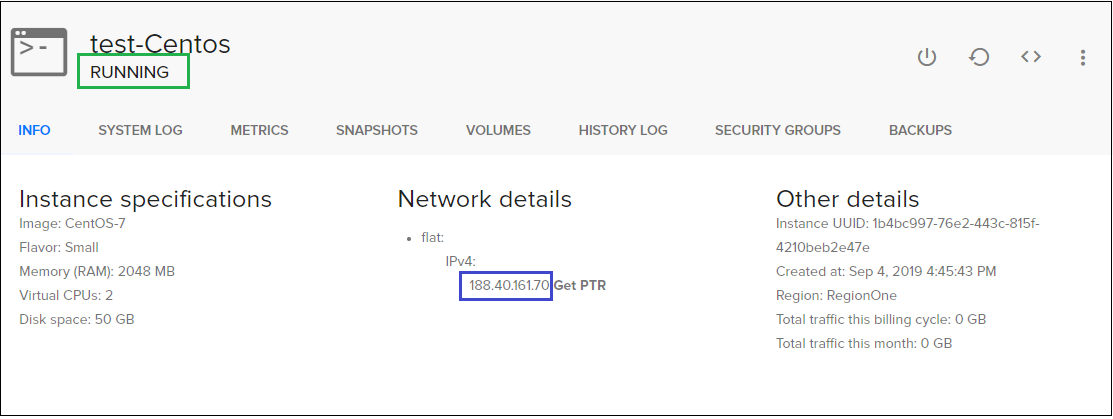
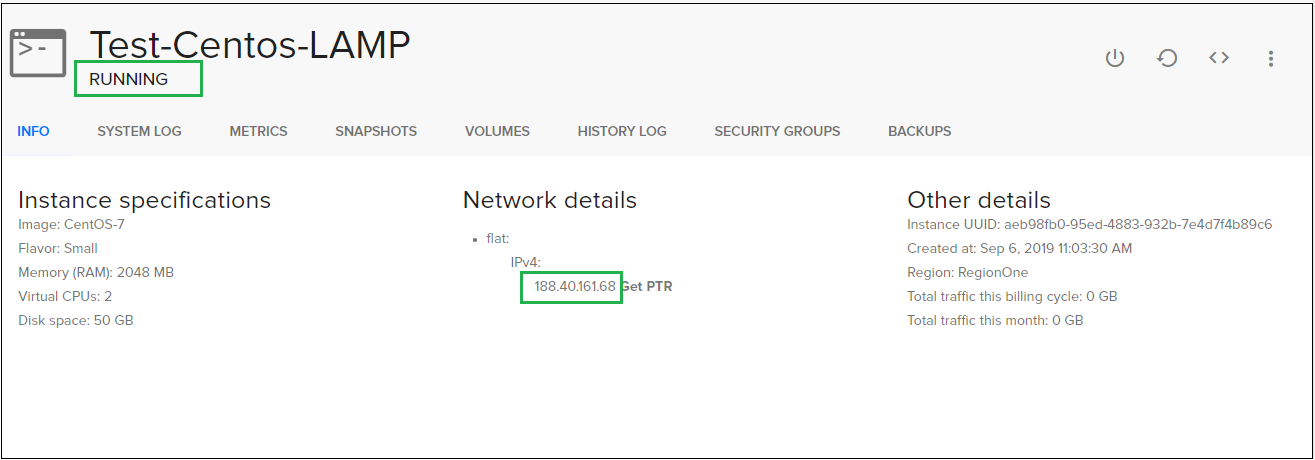
Install-LAMP+centos

diff --git a/_docs/tutorials/Install-LAMP+centos.md b/_docs/tutorials/Install-LAMP+centos.md
@@ -21,7 +21,7 @@ This article walks you through how to deploy an Apache web server, MySQL, and PH
 ## Table of contents
 {: .no_toc .text-delta }
 
-1. TOC
+* TOC
 {:toc}
 
 ## Create a virtual machine
@@ -35,7 +35,7 @@ For creating new virtual machine do the following:
 ![](../../assets/img/new-linux-vm-V/instances-Ventus0.png)
 
 2) On the following page fill next information:
-  - Instance Name (eg. "Test_LAMP")
+  - Instance Name (eg. "Test_LAMP" or "Test-Centos-LAMP)
   - Select a Boot source (eg. "ubuntu-1604-xenial" or "CentOS-7")
   - Select a configuration (eg. "Small")
   - Select a SSH Key
@@ -55,7 +55,7 @@ When the VM has been created, you can view instance details. Take note of the *p
 ![](../../assets/img/LAMP/centos0.png) 
 
 
-## Deploy the LAMP stack on an Centos VM
+## Deploy the LAMP stack on a Centos VM
 ---
 ### Install Apache
 
@@ -90,21 +90,21 @@ sudo systemctl enable httpd.service
 ```
 ### Install MariaDB Database
 
-MariaDB is a forked version of MySQL. It is an open source software application developed by a community that wants it to remain free for everyone.
+MariaDB is a forked version of MySQL. It is an open source software application developed by a community that wants it to remain free for everyone. We will need MariaDB to store information for our dynamic websites. 
 
-We will need MariaDB to store information for our dynamic websites. We can install MariaDB together with additional packages that we require on our CentOs server by running the commands below:
+1) We can install MariaDB together with additional packages that we require on our CentOs server by running the commands below:
 
 ```
 sudo yum install mariadb-server mariadb
 ```
-Confirm the installation, by pressing Y and Enter.
+2) Confirm the installation, by pressing `Y` and `Enter`.
 
-Now that the MariaDB installation was completed successfully, we can run the command below to start the service.
+3) Now that the MariaDB installation was completed successfully, we can run the command below to start the service.
 
 ```
 sudo systemctl start mariadb
 ```
-By default, our MariaDB is not secure by default, we need to remove the anonymous user and test database and configure other settings by running the command below:
+4) By default, our MariaDB is not secure by default, we need to remove the anonymous user and test database and configure other settings by running the command below:
 
 ```
 sudo mysql_secure_installation
@@ -122,41 +122,38 @@ Disallow root login remotely? [Y/n] Y
 Remove test database and access to it? [Y/n] Y
 Reload privilege tables now? [Y/n] Y
 ```
-Your MariaDB server is now secure. Type the command below to enable it during boot:
+5) Your MariaDB server is now secure. Type the command below to enable it during boot:
 
 ```
 sudo systemctl enable mariadb.service
 ```
 
 ### Install PHP
+
 PHP is a general-purpose server-side scripting language. PHP works together with HTML to display dynamic content on your website. It also has the correct drivers for connecting to the MariaDB database management system that we have installed above.
 
-We can install PHP and MySQL extension using the yum package installer by typing the command below:
+1) We can install PHP and MySQL extension using the yum package installer by typing the command below:
 
 ```
 sudo yum install php php-mysql
 ```
-Confirm the installation, by pressing Y and Enter.
+2) Confirm the installation, by pressing `Y` and `Enter`.
 
-We need to restart Apache web server one more time for it to work with PHP by typing:
+3) We need to restart Apache web server one more time for it to work with PHP by typing:
 
 ```
 sudo systemctl restart httpd.service
 ```
 
-Also, we need to install other php modules:
+4) Also, we need to install other php modules:
 
 ```
 sudo yum install php*
 ```
 
-
-
-### Test PHP
-
 Apache installs a default website on the directory ‘/var/www/html/’. So to test PHP on our CentOs 7 Server, we need to create a file there.
 
-Create our ‘info.php’ file by typing the command below:
+5) Create our ‘info.php’ file by typing the command below:
 
 ```
 sudo vi /var/www/html/info.php
@@ -169,9 +166,9 @@ A blank text file should be displayed, just copy paste the content below on the 
 phpinfo(); 
 ?>
 ```
-Then press Esc, :wq, and Enter to save the changes
+Then press `Esc :wq`, and `Enter` to save the changes.
 
-You need to visit the following URL on your browser to check whether PHP is working: http://ip_address/info.php
+6) You need to visit the following URL on your browser to check whether PHP is working: http://ip_address/info.php
 
 Remember to replace the ‘ip_address’ part with your CentOs 7 server’s public IP address.
 
@@ -182,6 +179,7 @@ If the installation was completed without a problem, you should see the below pa
 Your LAMP stack is now complete and you can run any type of dynamic website/software application provided it works on the Apache, MariaDB and PHP environment. You might also need to install or enable additional PHP extensions and Apache modules depending on your web hosting needs.
 
 ### Download and Setup WordPress
+
 1) Login to your mysql server using the command:
 
 ```
@@ -238,6 +236,7 @@ wget https://wordpress.org/wordpress-5.1.2.zip
 ```
 unzip wordpress-5.1.2.zip
 ```
+
 8) We need to restart httpd web server one more time for it to work by typing:
 
 ```
@@ -249,6 +248,7 @@ systemctl restart httpd
 ```
 sudo chown -R apache:apache /var/www/html/*
 ```
+
 10) Now you can complete the WordPress setup and publish on the platform. Open a browser and type in your **IP address/wordpress**. Substitute the public IP address of your VM. It should look similar to this image.
 
 ![](../../assets/img/LAMP/centos4.png)
@@ -267,9 +267,7 @@ sudo apt update && sudo apt install lamp-server^
 
 You are prompted to install the packages and other dependencies. This process installs the minimum required PHP extensions needed to use PHP with MySQL.
 
-### Verify installation and configuration
----
-#### Verify Apache
+### Verify Apache
 
 Check the version of Apache with the following command:  
 
@@ -281,15 +279,15 @@ With Apache installed, and port 80 open to your VM, the web server can now be ac
 
 ![](../../assets/img/LAMP/LAMP3.png) 
 
-#### Verify and secure MySQL
+### Verify and secure MySQL
 
-Check the version of MySQL with the following command (note the capital V parameter):  
+1) Check the version of MySQL with the following command (note the capital V parameter):  
 
 ```
 mysql -V
 ```    
 
-To help secure the installation of MySQL, including setting a root password, run the `mysql_secure_installation` script.
+2) To help secure the installation of MySQL, including setting a root password, run the `mysql_secure_installation` script.
 
 ```  
 sudo mysql_secure_installation
@@ -305,7 +303,7 @@ sudo mysql -u root -p
 
 When done, exit the mysql prompt by typing \q.
 
-#### Verify PHP
+### Verify PHP
 
 Check the version of PHP with the following command:
   
@@ -347,25 +345,21 @@ If you want to try your stack, install a sample app. As an example, the followin
 
 This WordPress setup is only for proof of concept. To install the latest WordPress in production with recommended security settings, see the [WordPress documentation](https://codex.wordpress.org/Main_Page).
 
-### Install the WordPress package
-
-Run the following command:
+1) To install the WordPress package run the following command:
 
 ```
 sudo apt install wordpress    
 ```
 
-### Configure WordPress
+2)After that you need to configure WordPress by using MySQL and PHP.
 
-Configure WordPress to use MySQL and PHP.
-
-1) In a working directory, create a text file `wordpress.sql` to configure the MySQL database for WordPress: 
+2.1) In a working directory, create a text file `wordpress.sql` to configure the MySQL database for WordPress: 
 
 ```
 sudo sensible-editor wordpress.sql
 ```  
 
-2) Add the following commands, substituting a database password of your choice for *yourPassword* (leave other values unchanged). If you previously set up a MySQL security policy to validate password strength, make sure the password meets the strength requirements. Save the file.
+2.2) Add the following commands, substituting a database password of your choice for *yourPassword* (leave other values unchanged). If you previously set up a MySQL security policy to validate password strength, make sure the password meets the strength requirements. Save the file.
 
 ```  
 CREATE DATABASE wordpress;  
@@ -375,25 +369,25 @@ TO wordpress@localhost
 IDENTIFIED BY 'yourPassword';  
 ```
 
-3) Run the following command to create the database:  
+2.3) Run the following command to create the database:  
 
 ```
 cat wordpress.sql | sudo mysql --defaults-extra-file=/etc/mysql/debian.cnf  
 ```
 
-4) Because the file `wordpress.sql` contains database credentials, delete it after use:  
+2.4) Because the file `wordpress.sql` contains database credentials, delete it after use:  
 
 ```
 sudo rm wordpress.sql
 ```
 
-5) To configure PHP, run the following command to open a text editor of your choice and create the file `/etc/wordpress/config-localhost.php`:  
+2.5) To configure PHP, run the following command to open a text editor of your choice and create the file `/etc/wordpress/config-localhost.php`:  
 
 ```
 sudo sensible-editor /etc/wordpress/config-localhost.php
 ```  
 
-6) Copy the following lines to the file, substituting your WordPress database password for *yourPassword* (leave other values unchanged). Then save the file.
+Copy the following lines to the file, substituting your WordPress database password for *yourPassword* (leave other values unchanged). Then save the file.
 
 ```  
 <?php
@@ -405,19 +399,20 @@ define('WP_CONTENT_DIR', '/usr/share/wordpress/wp-content');
 ?>  
 ```
 
-7) Move the WordPress installation to the web server document root: 
+2.6) Move the WordPress installation to the web server document root: 
 
 ```
 sudo ln -s /usr/share/wordpress /var/www/html/wordpress  
 sudo mv /etc/wordpress/config-localhost.php /etc/wordpress/config-default.php
 ``` 
 
-8) Now you can complete the WordPress setup and publish on the platform. Open a browser and type in your **IP address/wordpress**. Substitute the public IP address of your VM. It should look similar to this image.
+2.7) Now you can complete the WordPress setup and publish on the platform. Open a browser and type in your **IP address/wordpress**. Substitute the public IP address of your VM. It should look similar to this image.
 
 ![](../../assets/img/LAMP/LAMP5.png) 
 
 **Let's re-cap what we've done:**
 - Create an Ubuntu VM and Centos VM
-- Install Apache, MySQL, and PHP
-- Verify installation and configuration
+- Install Apache, MariaDB Database and PHP on a Centos VM
+- Install Apache, MySQL, and PHP on an Ubuntu VM
+- Verify installation and configuration 
 - Install WordPress on the LAMP server 
